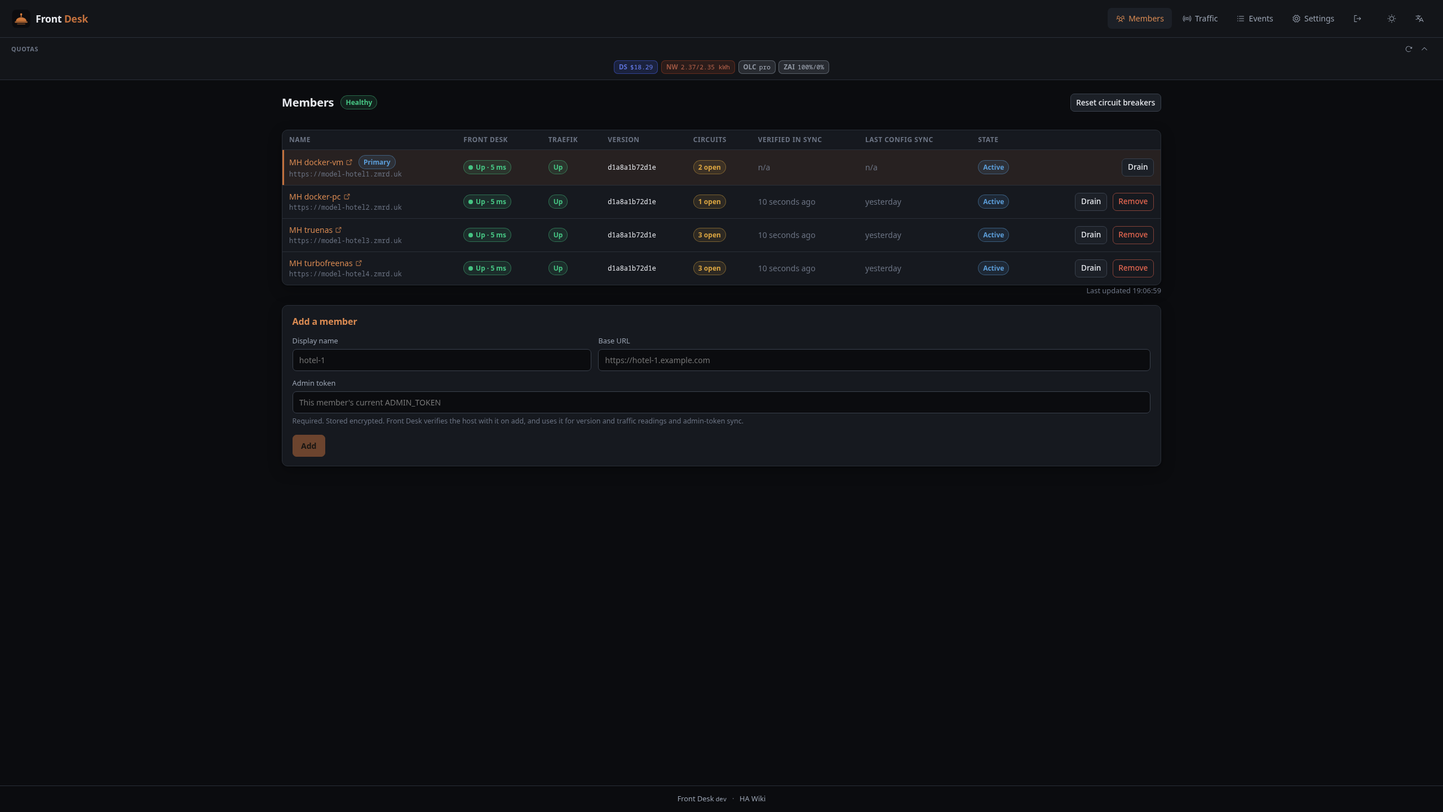
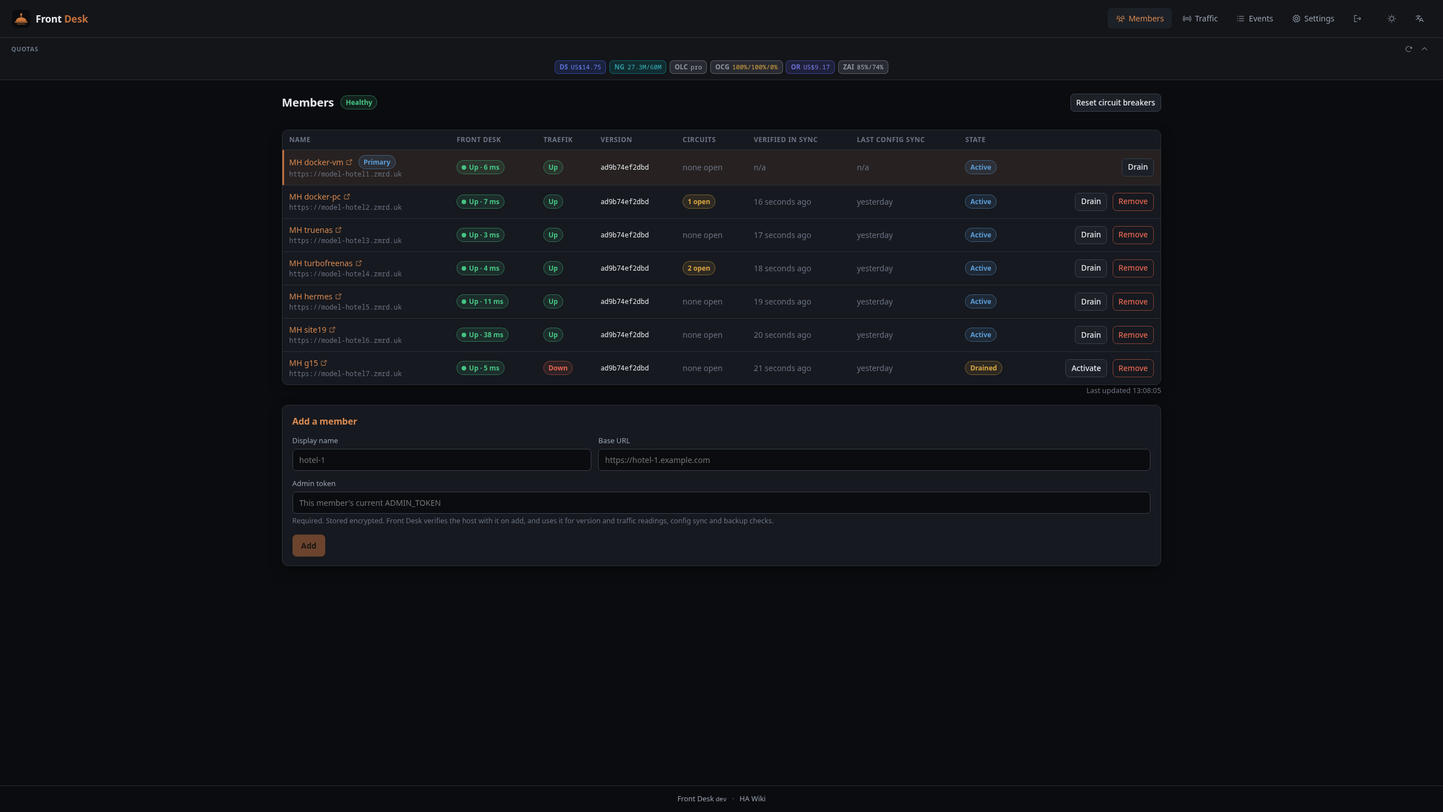
docs(readme): reorganise sections and resize screenshots
- Screenshots fill the 802px README column (pairs and the theme trio
  scaled to fit one row); image captions removed.
- High Availability and Bellhop merged into one short "High Availability
  & Companion App" section between Multi-User Access and API Endpoints,
  with a full-window Front Desk shot; the Bellhop images and the
  members thumbnail now live only in the wiki.
- New frontdesk_members.png: seven-member fleet (also used by the wiki).
- Section headings: icon outside the link, middle-dot separator, 24px
  icons, centred half-width divider between sections.
- Header icons and the logo's "Model" text darkened so they read on the
  light theme.
- Arena History preset wording clarified.

diff --git a/README.md b/README.md
@@ -39,18 +39,18 @@
 A single OpenAI-compatible endpoint in front of all your LLM providers, cloud or self-hosted. Add the same model from any number of providers and a failover group forms around it automatically: requests go to the providers in the order you set, and when one runs out of quota or goes down, the next one answers, with no change on the client side. A provider whose quota is spent is skipped until it resets, then rejoins on its own. Models are auto-discovered the moment you add a provider and, if you want, on a schedule. No prompt data is ever stored.
 
 <p align="center">
- <img src="docs/screenshots/dashboard_themes.webp" alt="Dashboard cycling through the Clean SaaS, Cyber Terminal, and Glassmorphism UI styles" width="720">
- <br>
- <sub>Model Hotel Dashboard</sub>
+ <img src="docs/screenshots/dashboard_themes.webp" alt="Dashboard cycling through the Clean SaaS, Cyber Terminal, and Glassmorphism UI styles" width="802">
 </p>
 
-### [<img src="docs/icons/quickstart.svg" width="20" height="20" style="vertical-align:middle;margin-right:6px;" alt=""> Quick Start](#-quick-start)
+### <img src="docs/icons/quickstart.svg" width="24" height="24" style="vertical-align:middle;margin-right:6px;" alt=""> · [Quick Start](#--quick-start)
 
 - [Deploy with Git](https://github.com/hugalafutro/model-hotel/wiki/Home#quick-start): clone, build, and log in for the first time; stop, update, or remove the stack
 - [Deploy without Git](https://github.com/hugalafutro/model-hotel/wiki/Deploy-without-Git): run the published image from two files, no clone, no build
 - [Development](https://github.com/hugalafutro/model-hotel/wiki/Development#quick-start): the dev stack with the `compose.dev.yml` overlay
 
-### [<img src="docs/icons/providers.svg" width="20" height="20" style="vertical-align:middle;margin-right:6px;" alt=""> One Endpoint, Many Providers](#-one-endpoint-many-providers)
+<div align="center"><hr width="50%"></div>
+
+### <img src="docs/icons/providers.svg" width="24" height="24" style="vertical-align:middle;margin-right:6px;" alt=""> · [One Endpoint, Many Providers](#--one-endpoint-many-providers)
 **Hosted:** [Anthropic](https://www.anthropic.com), [AWS Bedrock](https://aws.amazon.com/bedrock/), [Azure AI Foundry](https://ai.azure.com/), [Cohere](https://cohere.com/), [DeepSeek](https://www.deepseek.com), [Google AI Studio](https://aistudio.google.com/), [Kimi Code](https://www.kimi.com/), [MiniMax](https://www.minimax.io/), [NanoGPT](https://nano-gpt.com), [NeuralWatt](https://neuralwatt.com/), [Ollama Cloud](https://ollama.com), [OpenAI](https://openai.com/), [OpenCode Go](https://opencode.ai), [OpenCode Zen](https://opencode.ai), [OpenRouter](https://openrouter.ai/), [Vertex AI](https://cloud.google.com/vertex-ai) (express keys), [xAI](https://x.ai/), [Z.AI](https://z.ai/). All but Anthropic and AWS Bedrock speak the OpenAI API; those two are native families, and a hand-entered endpoint that speaks Anthropic's native `/v1/messages` has its own type (`anthropic-messages`). Any other OpenAI-compatible API, hosted or local, can be added as a custom endpoint.
 
 **Self-hosted:** [Ollama](https://github.com/ollama/ollama), [LM Studio](https://lmstudio.ai), [KoboldCPP](https://github.com/LostRuins/koboldcpp), [LocalAI](https://github.com/mudler/LocalAI), [SGLang](https://github.com/sgl-project/sglang) and [TabbyAPI](https://github.com/theroyallab/tabbyAPI) each have their own provider type: pick it, enter the address and port, done. Some providers need no API key at all (a local Ollama, or OpenCode Zen free models).
@@ -58,24 +58,26 @@ A single OpenAI-compatible endpoint in front of all your LLM providers, cloud or
 All of them are called through the same `/v1/chat/completions` endpoint; the proxy handles model ID mapping and failover transparently. Provider API keys are encrypted with AES-256-GCM at rest using your `MASTER_KEY`; only the proxy ever sees the decrypted credentials.
 
 <p align="center">
- <img src="docs/screenshots/providers.png" alt="Providers" width="720">
- <br>
- <sub>Provider management screen overview</sub>
+ <img src="docs/screenshots/providers.png" alt="Providers" width="802">
 </p>
 
-### [<img src="docs/icons/failover.svg" width="20" height="20" style="vertical-align:middle;margin-right:6px;" alt=""> Transparent Failover](#-transparent-failover)
+<div align="center"><hr width="50%"></div>
+
+### <img src="docs/icons/failover.svg" width="24" height="24" style="vertical-align:middle;margin-right:6px;" alt=""> · [Transparent Failover](#--transparent-failover)
 Requests that fail (server errors, rate limits, auth issues, request timeouts) are automatically retried on the next available provider, with exponential backoff and jitter between attempts so a failing provider is not hammered. Streaming requests get three extra guards: a [TTFT probe](https://github.com/hugalafutro/model-hotel/wiki/Failover-and-Hotel-Routing#ttft-probe-time-to-first-token) waits for the first token before committing the stream to your client, so a provider that never answers fails over instead of leaving the client hanging; a [stall watchdog](https://github.com/hugalafutro/model-hotel/wiki/Failover-and-Hotel-Routing#stall-watchdog) terminates a stream that goes silent mid-answer and counts it as a failure; and optional [hedging](https://github.com/hugalafutro/model-hotel/wiki/Failover-and-Hotel-Routing#request-hedging) (off by default) launches the next provider in parallel when the first one is slow to its first token, at the cost of duplicate upstream load. Both timeouts are set in **Settings → Proxy** and hedging under **Settings → Circuit Breaker & Failover**; the [Failover and Hotel Routing wiki](https://github.com/hugalafutro/model-hotel/wiki/Failover-and-Hotel-Routing#transparent-failover) has the full detail.
 
 <p align="center">
- <img src="docs/screenshots/failover.png" alt="Failover Groups" width="720">
- <br>
- <sub>Failover groups management</sub>
+ <img src="docs/screenshots/failover.png" alt="Failover Groups" width="802">
 </p>
 
-### [<img src="docs/icons/hotel.svg" width="20" height="20" style="vertical-align:middle;margin-right:6px;" alt=""> Hotel Routing](#-hotel-routing)
+<div align="center"><hr width="50%"></div>
+
+### <img src="docs/icons/hotel.svg" width="24" height="24" style="vertical-align:middle;margin-right:6px;" alt=""> · [Hotel Routing](#--hotel-routing)
 Prefix any model name with `hotel/` and you get the whole fleet behind it. `hotel/glm-4.6` reaches every provider that offers `glm-4.6`, in the order you set: a [failover group](https://github.com/hugalafutro/model-hotel/wiki/Failover-and-Hotel-Routing#failover-groups) forms on its own the moment two providers share a model name, follows discovery as models and providers come and go, and the request lands on the first healthy provider with no change on the client side. Behind it a per-model [circuit breaker](https://github.com/hugalafutro/model-hotel/wiki/Failover-and-Hotel-Routing#circuit-breaker) keeps track of who is failing: a provider that keeps erroring on one model is skipped for that model only, probed again after a cooldown that grows while it stays broken, and a provider that has run out of quota is [parked until its window resets](https://github.com/hugalafutro/model-hotel/wiki/Failover-and-Hotel-Routing#quota-pinned-cooldowns) and rejoins by itself. You set priorities and switch entries on or off from the dashboard; everything else is automatic. How groups are built, synced and ranked is in the [Failover and Hotel Routing wiki](https://github.com/hugalafutro/model-hotel/wiki/Failover-and-Hotel-Routing#hotel-routing).
 
-### [<img src="docs/icons/privacy.svg" width="20" height="20" style="vertical-align:middle;margin-right:6px;" alt=""> No Prompts Logged](#-no-prompts-logged)
+<div align="center"><hr width="50%"></div>
+
+### <img src="docs/icons/privacy.svg" width="24" height="24" style="vertical-align:middle;margin-right:6px;" alt=""> · [No Prompts Logged](#--no-prompts-logged)
 > [!NOTE]
 > **User prompts and request content are never captured, logged, or inspected.**
 > The proxy forwards requests to the provider exactly as received, without reading or modifying message contents.
@@ -85,51 +87,23 @@ The only information recorded is what is strictly necessary to route and meter t
 The optional **Arena History** feature (disabled by default, toggled under **Settings → Data Storage and Logging → Arena History**) can persist completed arena and compare session results in your browser's local storage. When enabled:
 
 - **Model-generated responses** (output text, thinking blocks, metrics) are stored locally so you can review past results.
-- **Preset prompts and personas** are saved by reference (e.g. "Dilemma preset", "Merlin persona"), storing only their built-in IDs, never the text content you didn't write yourself.
+- **Preset prompts and personas** are saved by reference (e.g. "Dilemma preset", "Merlin persona"): only their built-in IDs are stored, never their text.
 - **Custom user-entered text is never logged.** If you type your own prompt or persona system prompt, it is intentionally excluded from history records. Only the fact that a custom prompt was used is recorded (shown as "Custom prompt" in the history UI), with no content retained.
 
 History data never leaves your browser. It can be cleared at any time from the Settings page.
 
-### [<img src="docs/icons/health.svg" width="20" height="20" style="vertical-align:middle;margin-right:6px;" alt=""> High Availability](#-high-availability)
-Run several instances behind one client endpoint with no client-side change: a **Front Desk** control plane manages the fleet and replicates config to every member, while **Traefik** load-balances them with health checks and automatic failover. Members share one `MASTER_KEY` (so encrypted provider keys port across the fleet) and each keeps its own admin token.
+<div align="center"><hr width="50%"></div>
 
-<p align="center">
-  <a href="docs/screenshots/frontdesk_members.png"><img src="docs/screenshots/frontdesk_members_pills.png" width="720" alt="Front Desk control plane: provider quota badge strip above four healthy fleet members"></a>
-  <br>
-  <sub>Front Desk (HA control app) Dashboard</sub>
-</p>
-
-Full deployment in the [High Availability wiki](https://github.com/hugalafutro/model-hotel/wiki/High-Availability).
-
-### [<img src="docs/icons/bellhop.svg" width="20" height="20" style="vertical-align:middle;margin-right:6px;" alt=""> Bellhop Companion App](#-bellhop-companion-app)
-
-**Bellhop**, the native Android companion app for Front Desk, turns a paired phone into a pocket view of the fleet: live member health, request traffic, provider quota badges, the event log, and, for operator devices, one-tap drain, activate, and config-sync behind a biometric prompt. A home-screen widget keeps the fleet and its badges on the launcher without opening anything. It talks only to Front Desk, holds no provider credentials, and authenticates with a device token you can revoke from either side.
-
-<p align="center">
- <a href="docs/screenshots/bellhop_dashboard.png"><img src="docs/screenshots/bellhop_dashboard.png" width="220" align="middle" alt="Bellhop dashboard: linked fleet with quota badges, health and traffic sparklines"></a>
- <a href="docs/screenshots/bellhop_member.png"><img src="docs/screenshots/bellhop_member.png" width="220" align="middle" alt="Bellhop member detail: request-traffic graph and operator controls"></a>
- <br>
- <sub>Bellhop (Android HA companion) Dashboard - Fleet member details</sub>
-</p>
-<p align="center">
- <a href="docs/screenshots/bellhop_widget.png"><img src="docs/screenshots/bellhop_widget.png" width="280" align="middle" alt="Bellhop home-screen widget: member health, quota badge strip and the latest fleet event"></a>
- <br><sub>Bellhop Android Home screen widget</sub>
-</p>
-
-> [!NOTE]
-> Full walkthrough in the [Bellhop wiki](https://github.com/hugalafutro/model-hotel/wiki/Bellhop); source under [`android/`](android/README.md).<br>
-> APK download: [![Latest Bellhop release](https://img.shields.io/github/v/release/hugalafutro/model-hotel?filter=bellhop-v*&label=Bellhop%20APK&color=3ddc84)](https://github.com/hugalafutro/model-hotel/releases/tag/bellhop-latest) (signed; [Obtainium](https://github.com/ImranR98/Obtainium)-compatible).
-
-### [<img src="docs/icons/virtualkeys.svg" width="20" height="20" style="vertical-align:middle;margin-right:6px;" alt=""> Per-Client Virtual Keys](#-per-client-virtual-keys)
+### <img src="docs/icons/virtualkeys.svg" width="24" height="24" style="vertical-align:middle;margin-right:6px;" alt=""> · [Per-Client Virtual Keys](#--per-client-virtual-keys)
 Issue separate API keys for different users or services. Each key is SHA-256 hashed before storage, so raw keys are never persisted. Track token usage per key, set per-key rate limits (requests/sec and burst) plus an optional tokens-per-minute (TPM) cap, give a key a dollar budget per day, week or month (requests are refused with `429` once the period's spend reaches it, and the key shows how much of it is used), restrict which providers a key may reach, delete a key to immediately cut off access, and never expose your real provider credentials. Keys can be created and deleted from the dashboard or the admin API.
 
 <p align="center">
- <img src="docs/screenshots/virtual_keys.png" alt="Virtual Keys" width="720">
- <br>
- <sub>Virtual keys management</sub>
+ <img src="docs/screenshots/virtual_keys.png" alt="Virtual Keys" width="802">
 </p>
 
-### [<img src="docs/icons/logging.svg" width="20" height="20" style="vertical-align:middle;margin-right:6px;" alt=""> Request Logging with Overhead Breakdown](#-request-logging-with-overhead-breakdown)
+<div align="center"><hr width="50%"></div>
+
+### <img src="docs/icons/logging.svg" width="24" height="24" style="vertical-align:middle;margin-right:6px;" alt=""> · [Request Logging with Overhead Breakdown](#--request-logging-with-overhead-breakdown)
 Every request is logged with full latency decomposition:
 - **TTFT** (time to first token, measured by the streaming probe)
 - **Total duration** (end-to-end wall time)
@@ -138,9 +112,7 @@ Every request is logged with full latency decomposition:
 - **Cost** in dollars, priced from the serving model's per-token prices (cache-hit tokens at the cache-hit price where the model has one)
 
 <p align="center">
- <img src="docs/screenshots/logs.png" alt="Requests" width="720">
- <br>
- <sub>Overview of requests served with proxy overhead breakdown</sub>
+ <img src="docs/screenshots/logs.png" alt="Requests" width="802">
 </p>
 
 Streaming requests are captured as they start and updated as they finish, so you can see in-flight requests in the Logs view. The overhead breakdown helps you determine whether latency is coming from your provider or from the proxy itself.
@@ -148,12 +120,12 @@ Streaming requests are captured as they start and updated as they finish, so you
 The Dashboard reads the same per-token prices as the Cost column: its header toggles between tokens, requests and dollars (**T / R / $**), and in the `$` state the spend tile, the spend chart and the per-provider, per-model and per-key panels all show what the period cost. A model with no known prices meters at zero; hovering the spend tile shows how many served requests went unpriced.
 
 <p align="center">
- <img src="docs/screenshots/dashboard_spend.png" alt="Dashboard in its spend view" width="720">
- <br>
- <sub>Dashboard in the $ state: spend per week, per provider, per model and per key</sub>
+ <img src="docs/screenshots/dashboard_spend.png" alt="Dashboard in its spend view" width="802">
 </p>
 
-### [<img src="docs/icons/discovery.svg" width="20" height="20" style="vertical-align:middle;margin-right:6px;" alt=""> Built-In Model Discovery](#-built-in-model-discovery)
+<div align="center"><hr width="50%"></div>
+
+### <img src="docs/icons/discovery.svg" width="24" height="24" style="vertical-align:middle;margin-right:6px;" alt=""> · [Built-In Model Discovery](#--built-in-model-discovery)
 Add a provider and the service pulls the model list automatically via the provider's own API. Models are kept in sync on a schedule you control (default every 6 hours, configurable). Models that disappear from a provider's listing are disabled (never deleted) and come back automatically if the provider lists them again; manual disables are always respected. After a manual scan, a summary modal shows exactly what changed: models added, re-enabled, or disabled, any live pricing or context-length changes on existing models, plus any failover groups that were updated or deleted as a result. Changes detected by scheduled/startup background discovery instead surface as a count badge on the Models nav item; clicking the badge opens a summary of those changes and clears it. Discovery-disabled models carry a "not listed by the provider since…" tooltip on the Models page so they're easy to tell apart from manual disables. The following providers get enriched metadata beyond what the generic OpenAI-compatible endpoint returns:
 
 <table>
@@ -179,100 +151,115 @@ Add a provider and the service pulls the model list automatically via the provid
 </table>
 
 <p align="center">
- <img src="docs/screenshots/models.png" alt="Models" width="720">
- <br>
- <sub>Models overview</sub>
+ <img src="docs/screenshots/models.png" alt="Models" width="802">
 </p>
 
 Every hosted model is then enriched from [models.dev](https://models.dev/), an open-source model catalog that provides pricing, context limits, capabilities, and modality data for 200+ providers. The enrichment is non-destructive: it only fills fields that are empty or missing, never overwriting data that was already populated. This makes the full precedence per field **live provider data → built-in catalog → models.dev → empty**: you get the freshest values the provider reports, the catalog and models.dev only fill what's missing, and a stale catalog can never mask fresh live data. Custom endpoints and self-hosted servers are left out of both the catalog and models.dev steps: they serve whatever their operator loaded, and a local model named like a hosted one is not that model. If models.dev is unreachable, discovery proceeds normally using whatever data the provider returned and the download is retried in the background, so your existing catalog is never at risk.
 
-### [<img src="docs/icons/health.svg" width="20" height="20" style="vertical-align:middle;margin-right:6px;" alt=""> Model Health at a Glance](#-model-health-at-a-glance)
+<div align="center"><hr width="50%"></div>
+
+### <img src="docs/icons/health.svg" width="24" height="24" style="vertical-align:middle;margin-right:6px;" alt=""> · [Model Health at a Glance](#--model-health-at-a-glance)
 Test any model from the Models page with a single click. The test sends a minimal chat completion directly to the provider and reports total duration and the actual model response, so you know the provider is alive and responsive. DeepSeek providers show live account balance and OpenRouter providers show credit balance; Ollama Cloud providers show plan status; NanoGPT, Z.AI, Kimi Code, MiniMax and OpenCode Go providers show quota and usage data; NeuralWatt providers show energy quota and credit balance (Standard plan or higher). All of these are fetched from their respective APIs and shown on both the provider cards and the sidebar quota panel.
 
 <p align="center">
- <img src="docs/screenshots/models_modal.png" alt="Models page with one model's detail panel open over the table" width="720">
- <br>
- <sub>Models page with a model's detail panel open</sub>
+ <img src="docs/screenshots/models_modal.png" alt="Models page with one model's detail panel open over the table" width="802">
 </p>
 
-### [<img src="docs/icons/health.svg" width="20" height="20" style="vertical-align:middle;margin-right:6px;" alt=""> Provider Quotas & Usage](#-provider-quotas--usage)
+<div align="center"><hr width="50%"></div>
+
+### <img src="docs/icons/health.svg" width="24" height="24" style="vertical-align:middle;margin-right:6px;" alt=""> · [Provider Quotas & Usage](#--provider-quotas--usage)
 For providers that expose it, click a provider's quota badge (on its card or in the sidebar panel) to open a live usage breakdown - no need to leave the dashboard for the provider's billing page. **OpenRouter** shows credit balance and per-key spend; **Z.ai Coding Plan** shows its 5-hour, weekly, and MCP token quotas; **Kimi Code** shows its 5-hour and weekly quotas plus parallel-request limit and membership tier; **MiniMax** shows its 5-hour and weekly Token Plan quotas by model class; **NanoGPT** shows weekly token and daily image quotas with subscription details; **OpenCode Go** shows its rolling 5-hour, weekly and monthly plan quotas with their reset times; **NeuralWatt** shows energy-based quota with subscription and lifetime usage. Each modal toggles between **quota used** and **quota remaining**, and refreshes on demand. Some providers surface usage without a dedicated modal - **DeepSeek** shows account balance and **Ollama Cloud** shows plan status on their cards and sidebar badges.
 
 <p align="center">
-  <a href="docs/screenshots/quota_zaicoding.png"><img src="docs/screenshots/quota_zaicoding.png" width="360" alt="Z.ai Coding Plan quota"></a>
+  <a href="docs/screenshots/quota_zaicoding.png"><img src="docs/screenshots/quota_zaicoding.png" width="392" alt="Z.ai Coding Plan quota"></a>
   &nbsp;&nbsp;
-  <a href="docs/screenshots/quota_nanogpt.png"><img src="docs/screenshots/quota_nanogpt.png" width="360" alt="NanoGPT weekly token & image quotas"></a>
-  <br>
-  <sub>Quota limits/balance/spend modals for supported providers</sub>
+  <a href="docs/screenshots/quota_nanogpt.png"><img src="docs/screenshots/quota_nanogpt.png" width="392" alt="NanoGPT weekly token & image quotas"></a>
 </p>
 
-### [<img src="docs/icons/settings.svg" width="20" height="20" style="vertical-align:middle;margin-right:6px;" alt=""> Themeable UI](#-themeable-ui)
+<div align="center"><hr width="50%"></div>
+
+### <img src="docs/icons/settings.svg" width="24" height="24" style="vertical-align:middle;margin-right:6px;" alt=""> · [Themeable UI](#--themeable-ui)
 Make the dashboard your own from the Appearance settings. Pick one of three **UI styles**: **Clean SaaS** (refined and minimal, the default), **Cyber Terminal** (high-contrast, developer-centric), or **Glassmorphism** (slick translucent surfaces). Then toggle **dark / light** mode, and choose an **accent color** (each style ships a tasteful default, or pick your own). Everything persists locally in the browser.
 
 <p align="center">
-  <img src="docs/screenshots/dashboard_saas.png" width="265" alt="Clean SaaS UI style">
+  <img src="docs/screenshots/dashboard_saas.png" width="259" alt="Clean SaaS UI style">
   &nbsp;
-  <img src="docs/screenshots/dashboard_terminal.png" width="265" alt="Cyber Terminal UI style">
+  <img src="docs/screenshots/dashboard_terminal.png" width="259" alt="Cyber Terminal UI style">
   &nbsp;
-  <img src="docs/screenshots/dashboard_glass.png" width="265" alt="Glassmorphism UI style">
-  <br>
-  <sub>Available UI styles with their default color accents</sub>
+  <img src="docs/screenshots/dashboard_glass.png" width="259" alt="Glassmorphism UI style">
 </p>
 
-### [<img src="docs/icons/api.svg" width="20" height="20" style="vertical-align:middle;margin-right:6px;" alt=""> Interactive Chat & Arena](#-interactive-chat--arena)
+<div align="center"><hr width="50%"></div>
+
+### <img src="docs/icons/api.svg" width="24" height="24" style="vertical-align:middle;margin-right:6px;" alt=""> · [Interactive Chat & Arena](#--interactive-chat--arena)
 The dashboard includes a built-in **Chat** interface for testing models interactively, with support for system personas (presets or custom prompts), generation parameters (temperature, top_p, max_tokens, min_p, top_k, frequency/presence penalties), and streaming responses with collapsible thinking-block rendering. Vision-capable models show an image upload button: attach a photo for the model to describe or analyze. Audio-capable models show an audio upload button for sending audio input. Attachments are sent as OpenAI-compatible multimodal content parts (`image_url`, `input_audio`). Switch to **Conversation** mode to watch two models talk to each other: enter a starter prompt, set the number of rounds and optional delay between turns, and observe the back-and-forth with per-message metrics (duration, tokens, chars/sec).
 
 <p align="center">
- <img src="docs/screenshots/chat.png" alt="Chat" width="720">
- <br>
- <sub>Test conversational capabilities of models served by the proxy</sub>
+ <img src="docs/screenshots/chat.png" alt="Chat" width="802">
 </p>
 
-**Arena** mode offers two sub-modes: **Competition** runs bracket tournaments where models face off in pairwise matchups. Voting is blind: each matchup shows its two replies as Model A and Model B in a random order and reveals the names only once you have voted, and the bracket auto-advances to the next round until a champion emerges. **Compare** places two or more models in a grid with the same prompt for parallel evaluation, with a shared persona and no voting. Both modes support per-model generation parameters, streaming with thinking-block rendering, and per-response metrics (duration, tokens per second, prompt and completion tokens, and an estimated price from the model's listed rates). With Arena History enabled (see [No Prompts Logged](#-no-prompts-logged)), past sessions are saved to an arena history modal for review and restoration.
+**Arena** mode offers two sub-modes: **Competition** runs bracket tournaments where models face off in pairwise matchups. Voting is blind: each matchup shows its two replies as Model A and Model B in a random order and reveals the names only once you have voted, and the bracket auto-advances to the next round until a champion emerges. **Compare** places two or more models in a grid with the same prompt for parallel evaluation, with a shared persona and no voting. Both modes support per-model generation parameters, streaming with thinking-block rendering, and per-response metrics (duration, tokens per second, prompt and completion tokens, and an estimated price from the model's listed rates). With Arena History enabled (see [No Prompts Logged](#--no-prompts-logged)), past sessions are saved to an arena history modal for review and restoration.
 
 <p align="center">
- <img src="docs/screenshots/arena.png" alt="Arena" width="720">
- <br>
- <sub>Compare outputs of models served by the proxy</sub>
+ <img src="docs/screenshots/arena.png" alt="Arena" width="802">
 </p>
 
-### [<img src="docs/icons/settings.svg" width="20" height="20" style="vertical-align:middle;margin-right:6px;" alt=""> Real-Time Events & System Status](#-real-time-events--system-status)
+<div align="center"><hr width="50%"></div>
+
+### <img src="docs/icons/settings.svg" width="24" height="24" style="vertical-align:middle;margin-right:6px;" alt=""> · [Real-Time Events & System Status](#--real-time-events--system-status)
 A live SSE event bus delivers toast notifications for discovery outcomes, model disabling events, token counting errors, circuit breaker state transitions, and stale-request alerts straight to the dashboard. Failover retries during proxying are logged but **not** pushed as SSE events. The sidebar polls system stats every 10 seconds, showing CPU, memory, disk I/O, and network throughput with color-coded warnings (orange at 75%, red at 90%). When running under Docker Compose, stats are aggregated across containers; otherwise, cgroup metrics are used. Goroutine count, database health (size, connections, cache hit ratio), API uptime, and process count are also displayed.
 
 <p align="center">
- <img src="docs/screenshots/settings.png" alt="Settings" width="720">
- <br>
- <sub>Options and settings</sub>
+ <img src="docs/screenshots/settings.png" alt="Settings" width="802">
 </p>
 
-### [<img src="docs/icons/security.svg" width="20" height="20" style="vertical-align:middle;margin-right:6px;" alt=""> Security & Privacy](#-security--privacy)
+<div align="center"><hr width="50%"></div>
+
+### <img src="docs/icons/security.svg" width="24" height="24" style="vertical-align:middle;margin-right:6px;" alt=""> · [Security & Privacy](#--security--privacy)
 Secrets never sit in the clear: provider keys and SSO client secrets are [encrypted at rest](https://github.com/hugalafutro/model-hotel/wiki/Security#encryption-at-rest) with AES-256-GCM under a `MASTER_KEY` strengthened by Argon2id, and virtual keys, the admin token and every session token are stored only as [SHA-256 hashes](https://github.com/hugalafutro/model-hotel/wiki/Security#hashing). Outbound calls to providers go through [SSRF protection](https://github.com/hugalafutro/model-hotel/wiki/Security#provider-url-validation-ssrf-prevention) that resolves each hostname, refuses private and cloud-metadata addresses and dials by IP, and every response carries the usual [security headers](https://github.com/hugalafutro/model-hotel/wiki/Security#security-headers). For the dashboard you pick how to log in: the admin token, a [passkey](https://github.com/hugalafutro/model-hotel/wiki/Security#webauthnfido2-passkey-authentication) (Touch ID, Windows Hello, YubiKey), the token plus an [authenticator app](https://github.com/hugalafutro/model-hotel/wiki/Security#totp--authenticator-app-two-factor-2fa) as a second factor, [single sign-on](https://github.com/hugalafutro/model-hotel/wiki/Security#single-sign-on-openid-connect) through any OpenID Connect provider, or [GitHub](https://github.com/hugalafutro/model-hotel/wiki/Security#github-sign-in). All of them mint the same short-lived session, SSO and GitHub are gated by an email allowlist, and local login always keeps working, so a misconfigured provider cannot lock you out. Repeated login failures and rate-limit abuse can be handed to [CrowdSec](https://github.com/hugalafutro/model-hotel/wiki/CrowdSec) at the edge. Everything from key derivation to session lifetimes is in the [Security wiki](https://github.com/hugalafutro/model-hotel/wiki/Security).
 
 <p align="center">
-  <a href="docs/screenshots/settings_authentication.png"><img src="docs/screenshots/settings_auth_local.png" width="800" alt="Authentication settings: passkeys, active sessions, TOTP, tab timeout and password policy"></a>
+  <a href="docs/screenshots/settings_authentication.png"><img src="docs/screenshots/settings_auth_local.png" width="802" alt="Authentication settings: passkeys, active sessions, TOTP, tab timeout and password policy"></a>
 <br><br>
-  <a href="docs/screenshots/settings_authentication.png"><img src="docs/screenshots/settings_auth_oidc.png" width="390" alt="Authentication settings: OIDC single sign-on"></a>
+  <a href="docs/screenshots/settings_authentication.png"><img src="docs/screenshots/settings_auth_oidc.png" width="392" alt="Authentication settings: OIDC single sign-on"></a>
   &nbsp;&nbsp;
-  <a href="docs/screenshots/settings_authentication.png"><img src="docs/screenshots/settings_auth_github.png" width="390" alt="Authentication settings: GitHub sign-in"></a>
-  <br>
-  <sub>The Authentication settings page, split into its three sections. Click any panel for the full view.</sub>
+  <a href="docs/screenshots/settings_authentication.png"><img src="docs/screenshots/settings_auth_github.png" width="392" alt="Authentication settings: GitHub sign-in"></a>
 </p>
 
-### [<img src="docs/icons/users.svg" width="20" height="20" style="vertical-align:middle;margin-right:6px;" alt=""> Multi-User Access](#-multi-user-access)
+<div align="center"><hr width="50%"></div>
+
+### <img src="docs/icons/users.svg" width="24" height="24" style="vertical-align:middle;margin-right:6px;" alt=""> · [Multi-User Access](#--multi-user-access)
 Beyond the shared admin token, you can provision named dashboard accounts that sign in with a username and password (plus their own optional TOTP second factor) on the same login screen. Two roles: **admin** sees and does everything, while **user** accounts are scoped by granular grants (Chat/Arena, Usage dashboards, Request Logs, Models, Virtual Keys) so a teammate gets exactly the access they need and nothing more. Virtual keys belong to a user, and per-account rate limits (RPS/burst/TPM) and a per-account dollar budget aggregate across the keys that user owns.
 
 <p align="center">
- <img src="docs/screenshots/users.png" alt="Users page" width="720">
- <br>
- <sub>User overview</sub>
+ <img src="docs/screenshots/users.png" alt="Users page" width="802">
 </p>
 
 Manage accounts from the Users page (admin only): create a user, assign grants, set an initial password, reset a password or second factor, enable or disable, and read last-login and TOTP status at a glance. The username/password form appears on the login screen only once at least one user exists, so a fresh install keeps the single admin-token flow, and local token login is never removed so you cannot lock yourself out. See the [Multi-User wiki page](https://github.com/hugalafutro/model-hotel/wiki/Multi-User) for roles, grants, and the per-user rate-limit model.
 
-### [<img src="docs/icons/api.svg" width="20" height="20" style="vertical-align:middle;margin-right:6px;" alt=""> API Endpoints](#-api-endpoints)
+<div align="center"><hr width="50%"></div>
+
+### <img src="docs/icons/health.svg" width="24" height="24" style="vertical-align:middle;margin-right:6px;" alt=""> · [High Availability & Companion App](#--high-availability--companion-app)
+Optionally run several instances behind one client endpoint, with no client-side change. A small **Front Desk** control plane manages the fleet and replicates config to every member, while **Traefik** load-balances them with health checks and automatic failover.
+
+<p align="center">
+ <a href="docs/screenshots/frontdesk_members.png"><img src="docs/screenshots/frontdesk_members.png" alt="Front Desk Members tab: quota badge strip above a seven-member fleet with health, Traefik status, open circuits, config-sync stamps and drain controls" width="802"></a>
+</p>
+
+**Bellhop**, the Android companion app for Front Desk, puts fleet health, traffic, provider quota badges and operator controls on your phone and home screen. It talks only to Front Desk and holds no provider credentials.
+
+> [!NOTE]
+> Setup and screenshots in the [High Availability](https://github.com/hugalafutro/model-hotel/wiki/High-Availability) and [Bellhop](https://github.com/hugalafutro/model-hotel/wiki/Bellhop) wiki pages; app source under [`android/`](android/README.md).<br>
+> APK download: [![Latest Bellhop release](https://img.shields.io/github/v/release/hugalafutro/model-hotel?filter=bellhop-v*&label=Bellhop%20APK&color=3ddc84)](https://github.com/hugalafutro/model-hotel/releases/tag/bellhop-latest) (signed; [Obtainium](https://github.com/ImranR98/Obtainium)-compatible).
+
+<div align="center"><hr width="50%"></div>
+
+### <img src="docs/icons/api.svg" width="24" height="24" style="vertical-align:middle;margin-right:6px;" alt=""> · [API Endpoints](#--api-endpoints)
 One base URL, one virtual key, every endpoint. The core is the OpenAI-compatible [`/v1/chat/completions`](https://github.com/hugalafutro/model-hotel/wiki/API-Reference#post-v1chatcompletions) and [`/v1/models`](https://github.com/hugalafutro/model-hotel/wiki/API-Reference#get-v1models), and the same routing (`hotel/<model>` for failover, `<provider>/<model>` for a direct hit) carries [embeddings, rerank, image generation and edits, text-to-speech, speech-to-text and music generation](https://github.com/hugalafutro/model-hotel/wiki/API-Reference#multimodal-endpoints) as transparent pass-through. Two more client dialects are translated on the way in and out: the [Anthropic Messages API](https://github.com/hugalafutro/model-hotel/wiki/API-Reference#post-v1messages), so Claude Code and the Anthropic SDKs fail over across every provider in a group and are forwarded natively when the candidate is Anthropic itself, and the [OpenAI Responses API](https://github.com/hugalafutro/model-hotel/wiki/API-Reference#post-v1responses), so Codex CLI and other Responses-only clients do the same and are forwarded verbatim when the candidate is OpenAI. Models that OpenAI serves only over Responses are [re-routed there on the fly](https://github.com/hugalafutro/model-hotel/wiki/API-Reference#post-v1chatcompletions) while the client keeps speaking Chat Completions. Request and response bodies are never logged. Parameters, streaming formats and curl examples for every endpoint are in the [API Reference](https://github.com/hugalafutro/model-hotel/wiki/API-Reference).
 
-### [<img src="docs/icons/logging.svg" width="20" height="20" style="vertical-align:middle;margin-right:6px;" alt=""> Metrics & Log Shipping](#-metrics--log-shipping)
+<div align="center"><hr width="50%"></div>
+
+### <img src="docs/icons/logging.svg" width="24" height="24" style="vertical-align:middle;margin-right:6px;" alt=""> · [Metrics & Log Shipping](#--metrics--log-shipping)
 
 A Prometheus endpoint is exposed at `/metrics` (request rates by provider/model/status,
 latency and TTFT histograms, token counters, a dollar spend counter per provider and model, failover attempts per provider, upstream 429s by
@@ -311,7 +298,9 @@ sync) to a stateless [Apprise](https://github.com/caronc/apprise) container, whi
 Telegram, email, Discord, Slack, Matrix, a raw webhook, and around 80 other destinations; only the
 event summary is sent, never request content. See the [Alerting wiki](https://github.com/hugalafutro/model-hotel/wiki/Alerting).
 
-### [<img src="docs/icons/backup.svg" width="20" height="20" style="vertical-align:middle;margin-right:6px;" alt=""> Backup & Restore](#-backup--restore)
+<div align="center"><hr width="50%"></div>
+
+### <img src="docs/icons/backup.svg" width="24" height="24" style="vertical-align:middle;margin-right:6px;" alt=""> · [Backup & Restore](#--backup--restore)
 Backups are created via the Settings page or the admin API (`POST /api/backups`) using an unfiltered `pg_dump --format=custom` with zstd compression (level 12 on request, level 19 for scheduled backups). The resulting `.dump` files therefore contain *every* database table, not just the configuration ones: providers (encrypted keys), models, virtual key hashes, failover groups, and settings, but also request logs, app logs, the audit log, discovery history, quota snapshots, dashboard user accounts, TOTP secrets and recovery-code hashes, and WebAuthn credentials and sessions. Treat a `.dump` as sensitive and store it accordingly.
 
 <h3 align="center">Restoring a backup</h3>
@@ -340,9 +329,13 @@ docker exec -i postgres-container pg_restore --clean --if-exists -U user -d dbna
 
 **Not included** (filesystem only): `DATA_DIR/admin-token` (admin token hash), `DATA_DIR/backups/` (the backup files themselves), `MASTER_KEY` (environment variable).
 
-### [<img src="docs/icons/license.svg" width="20" height="20" style="vertical-align:middle;margin-right:6px;" alt=""> License](#-license)
+<div align="center"><hr width="50%"></div>
+
+### <img src="docs/icons/license.svg" width="24" height="24" style="vertical-align:middle;margin-right:6px;" alt=""> · [License](#--license)
 
 [MIT](LICENSE). See [CONTRIBUTING.md](CONTRIBUTING.md) for the contributor license agreement.
+
+<div align="center"><hr width="50%"></div>
 
 ### Full Documentation
 - [Configuration](https://github.com/hugalafutro/model-hotel/wiki/Configuration): Environment variables, runtime settings, Docker Compose
@@ -356,7 +349,7 @@ docker exec -i postgres-container pg_restore --clean --if-exists -U user -d dbna
 - [Request Logging](https://github.com/hugalafutro/model-hotel/wiki/Request-Logging): Log fields, overhead breakdown, retention
 - [Alerting](https://github.com/hugalafutro/model-hotel/wiki/Alerting): Outbound event notifications via Apprise
 - [CrowdSec](https://github.com/hugalafutro/model-hotel/wiki/CrowdSec): Parsers and scenarios for banning abusive clients at the edge
-- [Backup & Restore](#-backup--restore): Creating backups, restoring, critical requirements
+- [Backup & Restore](#--backup--restore): Creating backups, restoring, critical requirements
 - [High Availability](https://github.com/hugalafutro/model-hotel/wiki/High-Availability): Front Desk control plane + Traefik, drop-in HA across multiple instances
 - [Bellhop](https://github.com/hugalafutro/model-hotel/wiki/Bellhop): Android companion app, pairing, roles, monitoring and operator controls
 - [Development](https://github.com/hugalafutro/model-hotel/wiki/Development): Local setup, build commands, contributing
